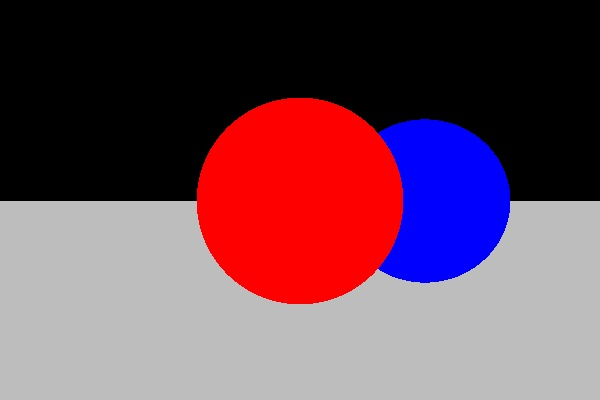
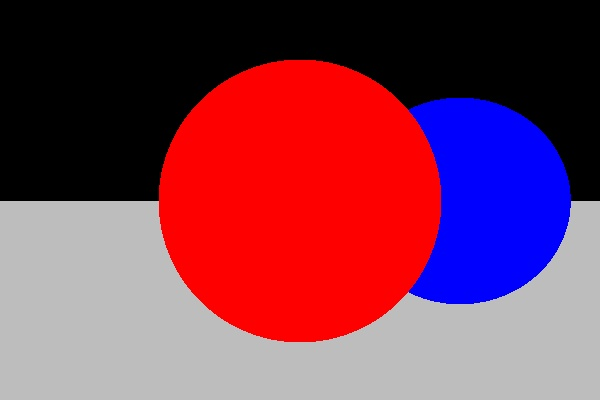
tutorial: reflections

Changed region(s): [[0.24, 0.15, 0.96, 0.87]]

diff --git a/tutorial/main.go b/tutorial/main.go
@@ -127,6 +127,20 @@ func main() {
 		render2(cam, e)
 	}
 
+	{
+		e := env(
+			Reflective(WHITE.EV(-4)),
+			Diffuse(RED),
+			Diffuse(BLUE),
+		)
+		cam := raster.Camera(1).Transl(0, 0, -3)
+		cam.AA = true
+		e.AddLight(
+			SphereLight(lightPos, 2, lightCol),
+		)
+		e.SetAmbient(Flat(WHITE))
+		render2(cam, e)
+	}
 }
 
 var (
@@ -152,6 +166,7 @@ var cnt = 0
 func render1(cam *raster.Cam, e *Env) {
 	cnt++
 	name := fmt.Sprintf("rt%02d.jpg", cnt)
+	fmt.Println(name)
 	img := raster.MakeImage(600, 400)
 	raster.SinglePass(cam, e, img)
 	raster.Encode(img, name)
@@ -160,6 +175,7 @@ func render1(cam *raster.Cam, e *Env) {
 func render2(cam *raster.Cam, e *Env) {
 	cnt++
 	name := fmt.Sprintf("rt%02d.jpg", cnt)
+	fmt.Println(name)
 	img := raster.MakeImage(600, 400)
 	raster.MultiPass(cam, e, img, 300)
 	raster.Encode(img, name)

diff --git a/tutorial/README.md b/tutorial/README.md
@@ -99,3 +99,9 @@ E.g.: we now see the spheres are also indirectly illuminated from below, by the 
 Let's place the spheres in a white room. The room now indirectly illuminates the spheres from all directions, making them look very soft. The relatively strong shadows directly underneath the spheres are referred to as "ambient occlusion". This effect emerges naturally with bi-directional path tracing when the recursion depth is sufficient (here: 6).
 
 ![fig](rt09.jpg)
+
+### Reflection
+
+Reflection is easy. When a ray hits a reflective surface, the returned color is simply the color seen by the reflected ray, multiplied by a reflectivity factor (e.g. 90% for shiny metal). The direction of the reflected ray is described here: https://en.wikipedia.org/wiki/Ray_tracing_(graphics)#Example.
+
+![fig](rt10.jpg)
